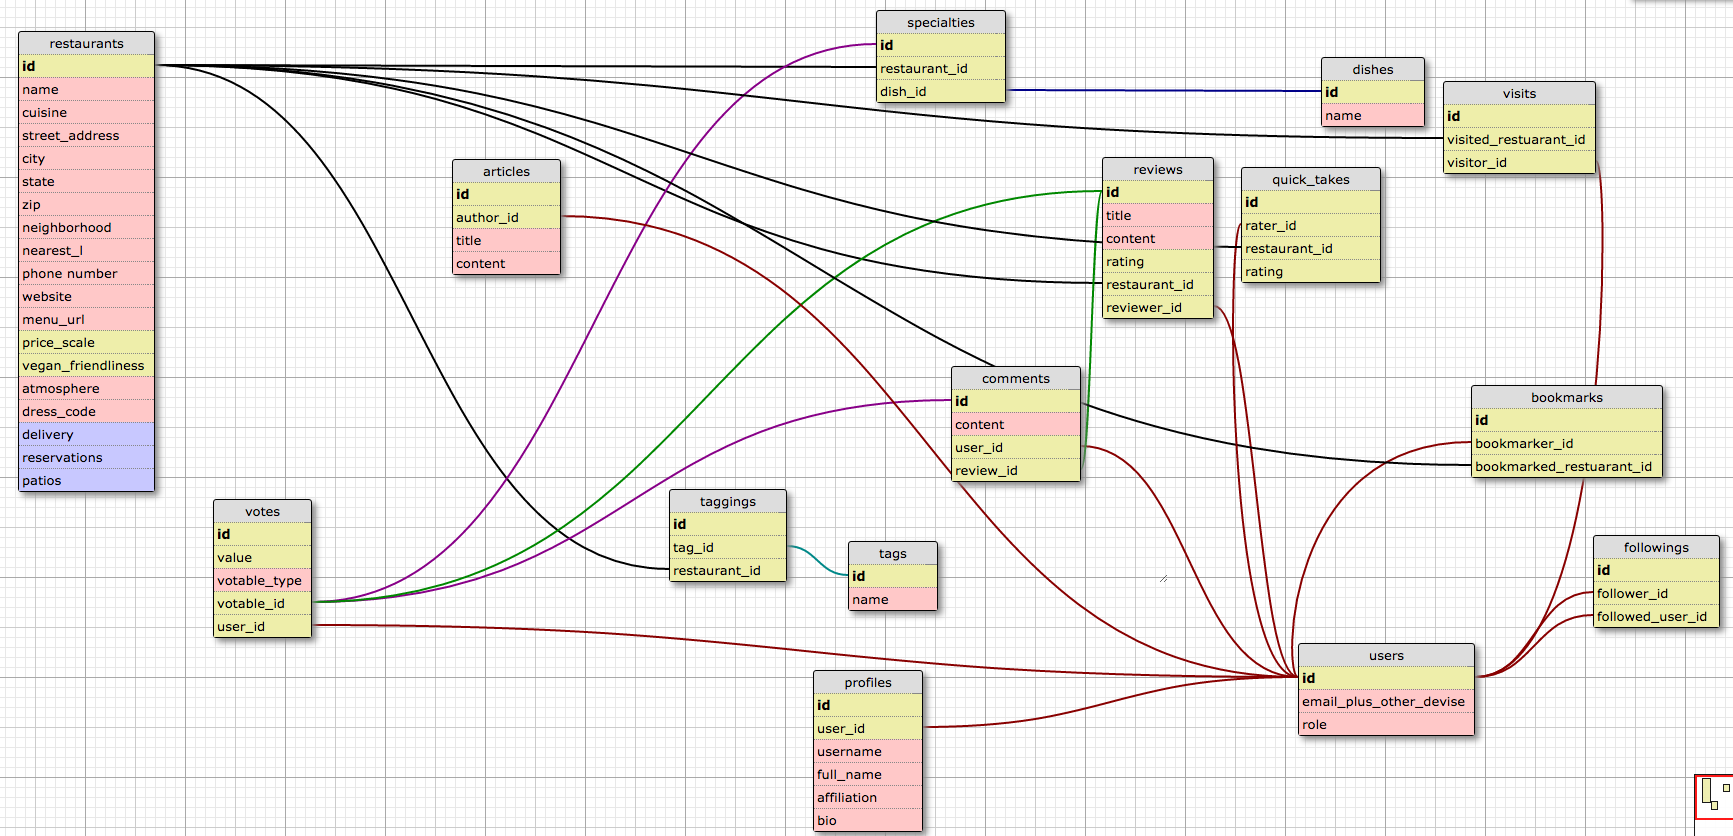
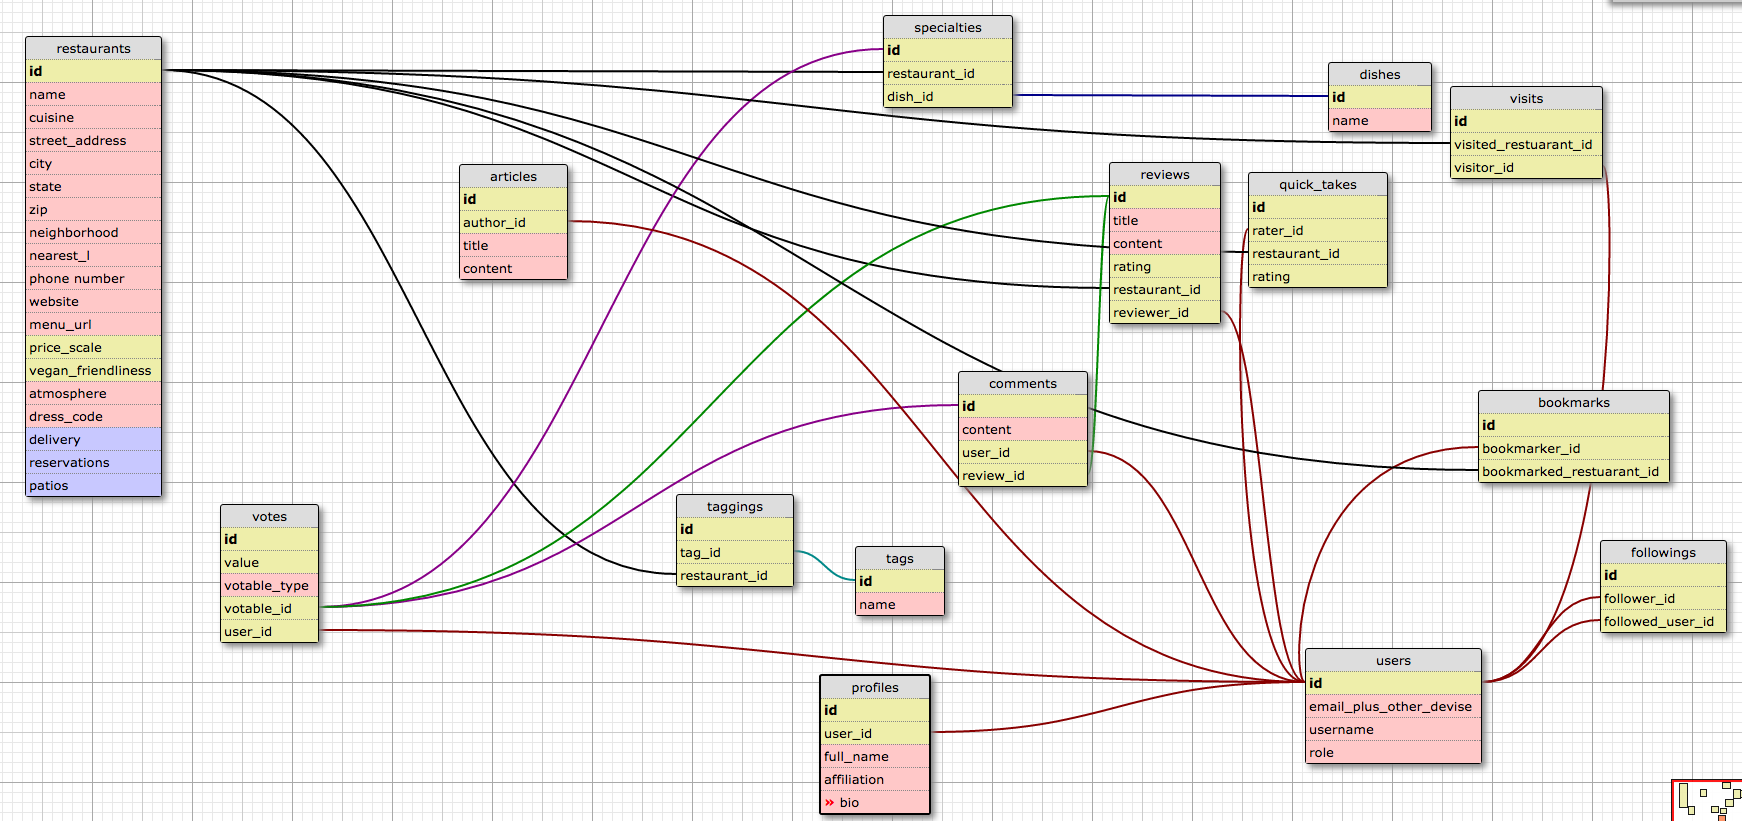
Write welcome page, navbar, choose color scheme
The following changes were also made: a helper method for getting
the first 60 words of content, finalized schemas, minor tweaks to
the seed file.

Changed region(s): [[0.0, 0.0, 1.0, 1.0], [0.9348, 0.9135, 1.0, 1.0]]

diff --git a/app/assets/stylesheets/foodie.css b/app/assets/stylesheets/foodie.css
@@ -1,3 +1,21 @@
+/* Mobile First */
+
+body {
+  font-family: 'Lato', sans-serif;
+}
+
+main {
+  margin: 0 10px;
+}
+
+h1, h2, h3, h4, h5, h6 {
+  color: #810541
+}
+
+h1.plain, h2.plain, h3.plain, h4.plain, h5.plain, h6.plain {
+  color: black;
+}
+
 .navbar-default {
   color: white;
   background-color: #810541;
@@ -21,6 +39,25 @@
   width: 180px;
 }
 
+.faux-panel {
+  margin-bottom: 20px;
+}
+
+.faux-panel h2 {
+  padding: 10px;
+  border: 1px solid #ccc;
+  border-bottom: 0px;
+  border-radius: 6px 6px 0 0;
+  margin-bottom: 0px;
+}
+
+.faux-panel-body {
+  padding: 0 10px 10px 10px;
+  border: 1px solid #ccc;
+  border-radius: 0 0 2px 2px;
+}
+
+/* Desktop Second */
 @media screen and (min-width: 768px) {
 
 }

diff --git a/db/seeds.rb b/db/seeds.rb
@@ -14,6 +14,11 @@ end
                   rating: rand(1..5), restaurant_id: rand(1..15), reviewer_id: rand(1..100))
 end
 
+20.times do
+  Article.create!(title: FFaker::Company.bs, content: FFaker::HipsterIpsum.paragraphs,
+                  author_id: rand(1..100))
+end
+
 100.times do
   user = User.create!(email: FFaker::Internet.email, username: FFaker::Internet.user_name, password: "password")
   profile = Profile.create(bio: FFaker::BaconIpsum.words(50), affiliation: FFaker::Company.bs, full_name: FFaker::Name.name, user_id: user.id )

diff --git a/app/controllers/welcome_controller.rb b/app/controllers/welcome_controller.rb
@@ -1,7 +1,10 @@
 class WelcomeController < ApplicationController
 
   def index
-
+    # Refactor to featured stuff based on algorithm later
+    @restaurant = Restaurant.all.sample
+    @review = Review.all.sample
+    @article = Article.all.sample
   end
 
 end

diff --git a/app/models/article.rb b/app/models/article.rb
@@ -1,4 +1,5 @@
 class Article < ActiveRecord::Base
+  include ContentHelper
   belongs_to :author, class_name: "User"
 
   validates :title, :content, :author_id, presence: true

diff --git a/app/models/review.rb b/app/models/review.rb
@@ -1,4 +1,6 @@
 class Review < ActiveRecord::Base
+  include ContentHelper
+
   has_many :votes, :as => :votable
   has_many :comments
   belongs_to :restaurant

diff --git a/app/helpers/content_helper.rb b/app/helpers/content_helper.rb
@@ -1,0 +1,5 @@
+module ContentHelper
+  def get_preview
+    self.content.split(" ")[0..60].join(" ")
+  end
+end
